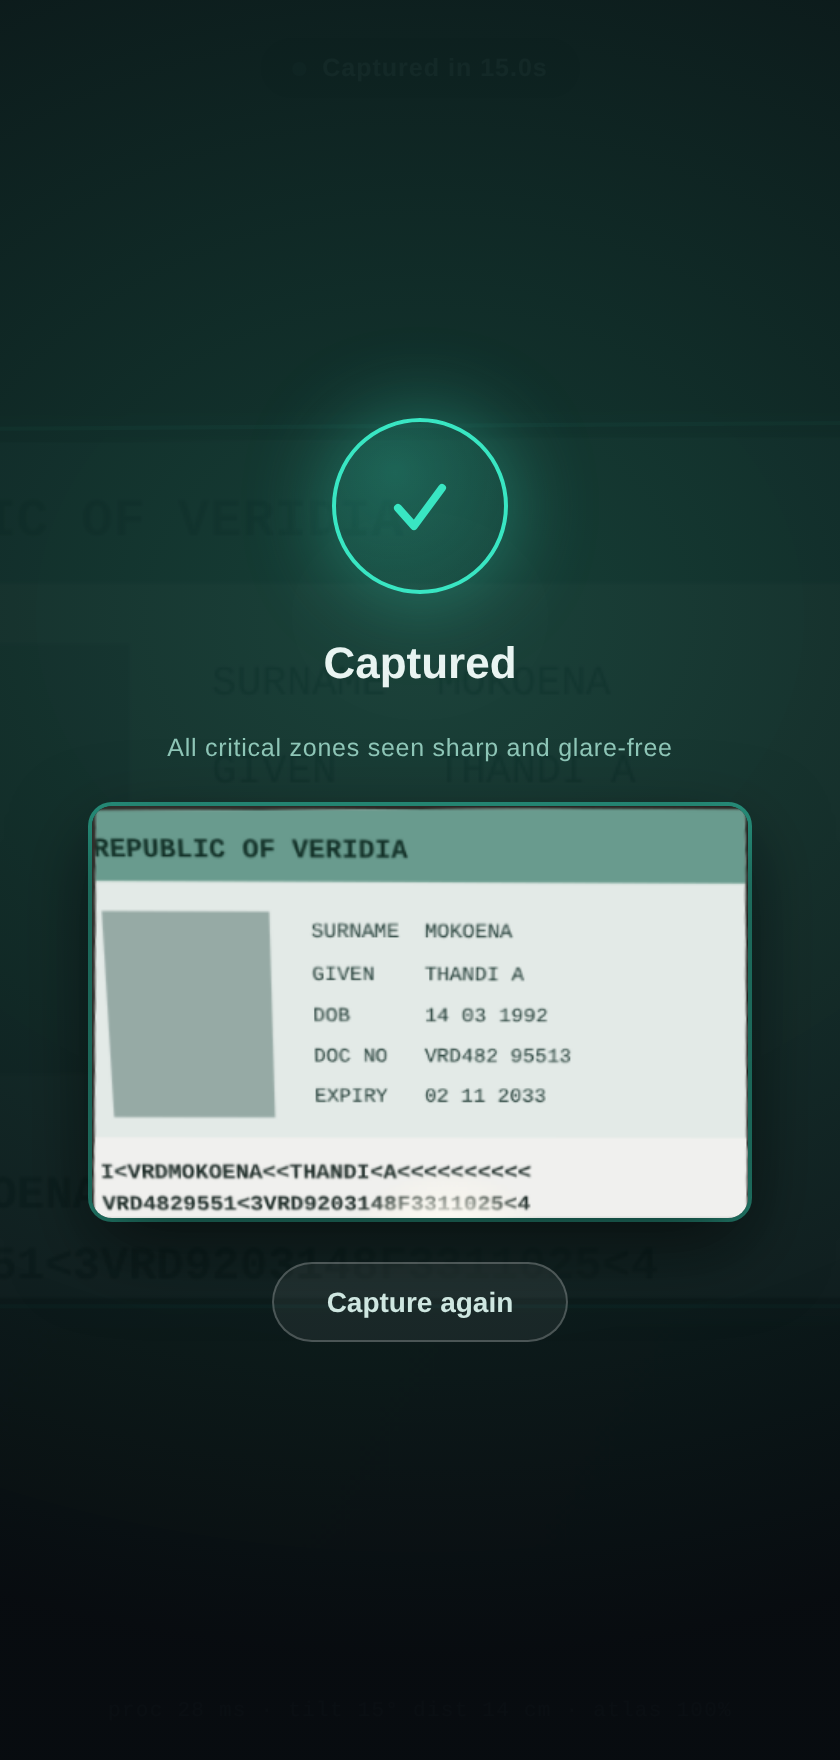
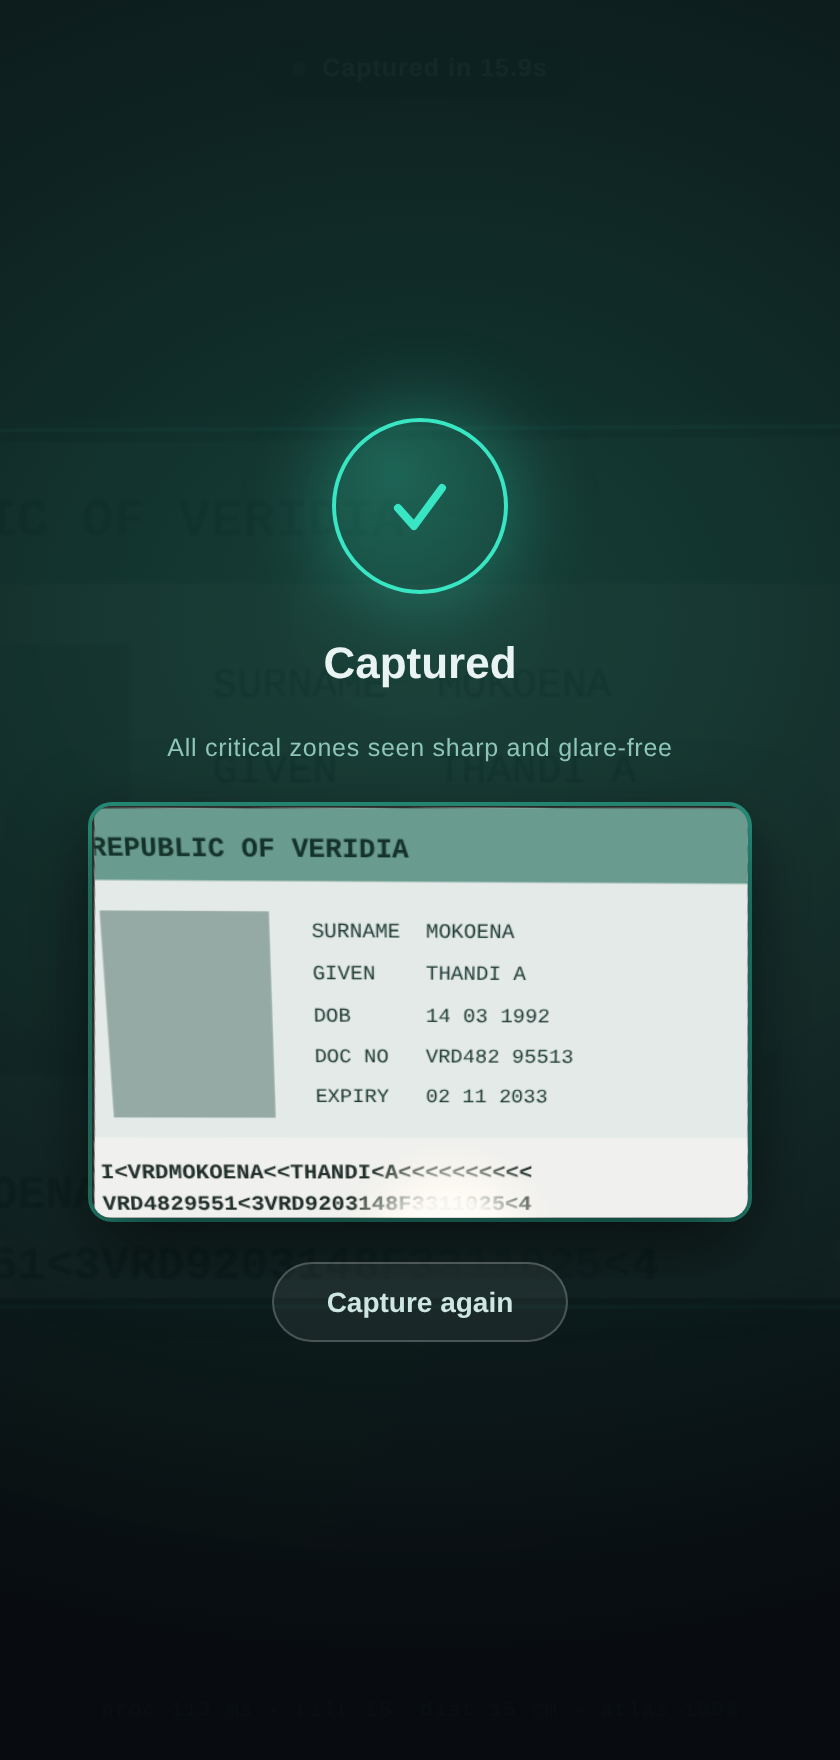
Detect-then-track + full-resolution capture
Finicky lock:
- Track the card in a padded ROI around its last position instead of
  re-scanning the whole frame (stabler, faster, immune to competing
  rectangles); full-frame detection only on ROI miss
- Otsu-threshold fallback when Canny fragments on soft edges
- Wider aspect tolerance (1.15-2.6) so tilted cards keep detecting

Blurry output (root cause): the best frame was saved from the 960px
analysis stream into a 428x270 raster. Now the deliverable is
re-rectified from the native-resolution camera frame into a 4x raster
(1712x1080), captured only when motion is near zero, rate-limited,
with a final fresh grab at completion.

https://claude.ai/code/session_015UCbErKJk2oGsLNqDW1b71

diff --git a/web/js/app.js b/web/js/app.js
@@ -32,6 +32,7 @@ const state = {
   atlas: null,
   pose: null,
   bestFrame: { score: -1, canvas: null },
+  bestHi: { score: -1, canvas: null, lastCapMs: 0 },
   glareZones: [],
   glareCounters: {},       // per-zone hysteresis counters
   coachMsg: { code: 'show', text: 'Show your ID.' },
@@ -55,6 +56,10 @@ const TUNE = {
   coachMinShowMs: 1200,    // minimum time a shown message stays up
   glareOn: 3, glareCap: 6, // zone glare hysteresis counter thresholds
   analyzeEvery: 2,         // heavy UV analysis every Nth frame
+  roiMargin: 0.3,          // tracking ROI margin around last quad (fraction of bbox)
+  hiResScale: 4,           // final capture raster = 4x analysis UV (1712x1080)
+  hiResMinIntervalMs: 400, // don't re-capture hi-res more often than this
+  hiResMotionMax: 0.012,   // only hi-res capture when nearly still (avoid blur)
 };
 
 // ---------- boot ----------
@@ -218,9 +223,35 @@ function quadCenter(c) {
   return { x: (c[0].x + c[1].x + c[2].x + c[3].x) / 4, y: (c[0].y + c[1].y + c[2].y + c[3].y) / 4 };
 }
 
+/** Detect-then-track: when we know where the card was, search only a padded
+ *  region around it — far more stable (no competing rectangles) and faster.
+ *  Falls back to full-frame when the ROI misses. */
+function detectTracked(src) {
+  if (!state.lastCorners) return P.detectQuad(src);
+  const xs = state.lastCorners.map(p => p.x), ys = state.lastCorners.map(p => p.y);
+  const bx = Math.min(...xs), by = Math.min(...ys);
+  const bw = Math.max(...xs) - bx, bh = Math.max(...ys) - by;
+  const mx = bw * TUNE.roiMargin, my = bh * TUNE.roiMargin;
+  const rx = Math.max(0, Math.round(bx - mx)), ry = Math.max(0, Math.round(by - my));
+  const rw = Math.min(src.cols - rx, Math.round(bw + mx * 2));
+  const rh = Math.min(src.rows - ry, Math.round(bh + my * 2));
+  if (rw < 60 || rh < 40) return P.detectQuad(src);
+  const roi = src.roi(new cv.Rect(rx, ry, rw, rh));
+  // inside the ROI the card dominates: loosen area bounds
+  const cfg = Object.assign({}, P.CONFIG, { minAreaFrac: 0.15, maxAreaFrac: 0.99 });
+  const q = P.detectQuad(roi, cfg);
+  roi.delete();
+  if (q) {
+    q.corners = q.corners.map(p => ({ x: p.x + rx, y: p.y + ry }));
+    q.areaFrac = q.areaFrac * (rw * rh) / (src.cols * src.rows);
+    return q;
+  }
+  return P.detectQuad(src); // ROI miss — one full-frame attempt
+}
+
 function processFrame(src) {
   state.frameCount++;
-  let quad = P.detectQuad(src);
+  let quad = detectTracked(src);
 
   // competing-contour filter: while locked, a quad that teleports far away is
   // probably a different rectangle in the scene — ignore unless it persists
@@ -309,6 +340,17 @@ function processFrame(src) {
       cv.imshow(c, uv);
       state.bestFrame.canvas = c;
     }
+    // the deliverable: re-rectify from the FULL-resolution camera frame
+    // (analysis runs downscaled; the capture must not)
+    const now = performance.now();
+    if (score > state.bestHi.score * 1.02
+        && motion < TUNE.hiResMotionMax
+        && now - state.bestHi.lastCapMs > TUNE.hiResMinIntervalMs) {
+      const hi = captureHiRes(quad.corners);
+      if (hi) {
+        state.bestHi = { score, canvas: hi, lastCapMs: now };
+      }
+    }
 
     const msg = P.coach({ quad, pose: state.pose, glare, sharp, atlas: state.atlas, motion });
     // suppress glare coaching unless the zone passed hysteresis
@@ -340,6 +382,38 @@ function updateCoach(code, text) {
   }
 }
 
+/** Rectify the document from the native-resolution source into a hi-res raster. */
+function captureHiRes(procCorners) {
+  try {
+    let source, sw, sh;
+    if (state.mode === 'demo') {
+      source = state.demo.canvas; sw = source.width; sh = source.height;
+    } else {
+      source = els.video; sw = source.videoWidth; sh = source.videoHeight;
+      if (!sw) return null;
+    }
+    const k = sw / state.procW; // processing space -> native space
+    const corners = procCorners.map(p => ({ x: p.x * k, y: p.y * k }));
+    if (!work.hiCap || work.hiCap.width !== sw) {
+      work.hiCap = document.createElement('canvas');
+      work.hiCap.width = sw; work.hiCap.height = sh;
+      work.hiCtx = work.hiCap.getContext('2d', { willReadFrequently: true });
+    }
+    work.hiCtx.drawImage(source, 0, 0, sw, sh);
+    const full = cv.matFromImageData(work.hiCtx.getImageData(0, 0, sw, sh));
+    const outW = P.UV_W * TUNE.hiResScale, outH = P.UV_H * TUNE.hiResScale;
+    const uv = P.rectifyTo(full, corners, outW, outH);
+    const c = document.createElement('canvas');
+    c.width = outW; c.height = outH;
+    cv.imshow(c, uv);
+    full.delete(); uv.delete();
+    return c;
+  } catch (e) {
+    console.warn('hi-res capture failed', e);
+    return null;
+  }
+}
+
 function complete() {
   state.phase = 'COMPLETE';
   els.coach.classList.remove('show');
@@ -347,10 +421,16 @@ function complete() {
   const secs = ((performance.now() - state.t0) / 1000).toFixed(1);
   els.status.textContent = `Captured in ${secs}s`;
   document.body.classList.add('complete');
-  if (state.bestFrame.canvas) {
+  // final attempt at a fresh hi-res grab at the moment of completion
+  if (state.lastCorners) {
+    const hi = captureHiRes(state.lastCorners);
+    if (hi && state.bestHi.score < 0) state.bestHi = { score: 0, canvas: hi, lastCapMs: performance.now() };
+  }
+  const artifact = state.bestHi.canvas || state.bestFrame.canvas;
+  if (artifact) {
     els.doneThumb.innerHTML = '';
-    state.bestFrame.canvas.classList.add('rectified');
-    els.doneThumb.appendChild(state.bestFrame.canvas);
+    artifact.classList.add('rectified');
+    els.doneThumb.appendChild(artifact);
   }
   setTimeout(() => {
     els.donePane.classList.remove('hidden');

diff --git a/web/js/pipeline.js b/web/js/pipeline.js
@@ -38,7 +38,7 @@
     minAreaFrac: 0.05,         // quad must cover >= 5% of frame
     maxAreaFrac: 0.95,
     approxEpsFrac: 0.03,       // approxPolyDP epsilon as fraction of perimeter
-    aspectMin: 1.25, aspectMax: 2.15,   // ID-1 = 1.586
+    aspectMin: 1.15, aspectMax: 2.6,    // ID-1 = 1.586; tilt compresses apparent aspect
     glareValMin: 246,          // HSV V threshold (true glare is blown out, not just bright)
     glareSatMax: 60,           // HSV S threshold
     glareZoneFracBad: 0.04,    // zone is "glared" if > 4% of its pixels glare
@@ -74,6 +74,8 @@
 
   /**
    * Detect the document quadrangle in an RGBA frame Mat.
+   * Tries Canny edges first; falls back to Otsu binarization (handles soft
+   * edges / low local contrast where Canny fragments).
    * Returns { corners:[tl,tr,br,bl] in FULL-frame px, score, areaFrac } or null.
    */
   function detectQuad(srcRGBA, cfg = CONFIG) {
@@ -81,18 +83,45 @@
     const scale = cfg.analysisWidth / fw;
     const aw = Math.round(fw * scale), ah = Math.round(fh * scale);
 
-    const small = new cv.Mat(), gray = new cv.Mat(), edges = new cv.Mat();
+    const small = new cv.Mat(), gray = new cv.Mat();
     cv.resize(srcRGBA, small, new cv.Size(aw, ah), 0, 0, cv.INTER_AREA);
     cv.cvtColor(small, gray, cv.COLOR_RGBA2GRAY);
     cv.GaussianBlur(gray, gray, new cv.Size(5, 5), 0);
-    cv.Canny(gray, edges, cfg.cannyLo, cfg.cannyHi);
+
     const kernel = cv.getStructuringElement(cv.MORPH_RECT, new cv.Size(3, 3));
-    cv.dilate(edges, edges, kernel);
-    kernel.delete();
+    let best = null;
 
+    // strategy 1: Canny edges
+    {
+      const edges = new cv.Mat();
+      cv.Canny(gray, edges, cfg.cannyLo, cfg.cannyHi);
+      cv.dilate(edges, edges, kernel);
+      best = bestQuadFromBinary(edges, aw, ah, cfg);
+      edges.delete();
+    }
+    // strategy 2: Otsu threshold (bright card on darker surface or vice versa)
+    if (!best) {
+      const bin = new cv.Mat();
+      cv.threshold(gray, bin, 0, 255, cv.THRESH_BINARY + cv.THRESH_OTSU);
+      best = bestQuadFromBinary(bin, aw, ah, cfg);
+      if (!best) {
+        cv.bitwise_not(bin, bin);
+        best = bestQuadFromBinary(bin, aw, ah, cfg);
+      }
+      bin.delete();
+    }
+    kernel.delete(); small.delete(); gray.delete();
+
+    if (!best) return null;
+    let corners = best.ordered.map(p => ({ x: p.x / scale, y: p.y / scale }));
+    corners = refineCorners(srcRGBA, corners);
+    return { corners, score: best.score, areaFrac: best.areaFrac };
+  }
+
+  /** Find the best card-like quad in a binary/edge image. */
+  function bestQuadFromBinary(binary, aw, ah, cfg) {
     const contours = new cv.MatVector(), hier = new cv.Mat();
-    cv.findContours(edges, contours, hier, cv.RETR_EXTERNAL, cv.CHAIN_APPROX_SIMPLE);
-
+    cv.findContours(binary, contours, hier, cv.RETR_EXTERNAL, cv.CHAIN_APPROX_SIMPLE);
     let best = null;
     const frameArea = aw * ah;
     for (let i = 0; i < contours.size(); i++) {
@@ -113,7 +142,6 @@
           const hL = dist(ordered[0], ordered[3]), hR = dist(ordered[1], ordered[2]);
           const aspect = ((wTop + wBot) / 2) / Math.max(1, (hL + hR) / 2);
           if (aspect >= cfg.aspectMin && aspect <= cfg.aspectMax) {
-            // rectangularity: contour area vs quad area
             const cArea = cv.contourArea(cnt);
             const rectangularity = cArea / Math.max(1, area);
             const score = areaFrac * rectangularity;
@@ -123,12 +151,8 @@
       }
       approx.delete(); cnt.delete();
     }
-    contours.delete(); hier.delete(); small.delete(); gray.delete(); edges.delete();
-
-    if (!best) return null;
-    let corners = best.ordered.map(p => ({ x: p.x / scale, y: p.y / scale }));
-    corners = refineCorners(srcRGBA, corners);
-    return { corners, score: best.score, areaFrac: best.areaFrac };
+    contours.delete(); hier.delete();
+    return best;
   }
 
   /** Sub-pixel corner refinement on the full-res frame (corrects the
@@ -155,20 +179,25 @@
     }
   }
 
-  /** Rectify the document into UV space. Returns a new RGBA Mat (UV_W x UV_H). */
-  function rectify(srcRGBA, corners) {
+  /** Rectify the document into an arbitrary-resolution raster. */
+  function rectifyTo(srcRGBA, corners, outW, outH) {
     const srcTri = cv.matFromArray(4, 1, cv.CV_32FC2, [
       corners[0].x, corners[0].y, corners[1].x, corners[1].y,
       corners[2].x, corners[2].y, corners[3].x, corners[3].y,
     ]);
     const dstTri = cv.matFromArray(4, 1, cv.CV_32FC2, [
-      0, 0, UV_W, 0, UV_W, UV_H, 0, UV_H,
+      0, 0, outW, 0, outW, outH, 0, outH,
     ]);
     const H = cv.getPerspectiveTransform(srcTri, dstTri);
     const uv = new cv.Mat();
-    cv.warpPerspective(srcRGBA, uv, H, new cv.Size(UV_W, UV_H), cv.INTER_LINEAR, cv.BORDER_REPLICATE);
+    cv.warpPerspective(srcRGBA, uv, H, new cv.Size(outW, outH), cv.INTER_LINEAR, cv.BORDER_REPLICATE);
     srcTri.delete(); dstTri.delete(); H.delete();
     return uv;
+  }
+
+  /** Rectify the document into UV analysis space. Returns a new RGBA Mat (UV_W x UV_H). */
+  function rectify(srcRGBA, corners) {
+    return rectifyTo(srcRGBA, corners, UV_W, UV_H);
   }
 
   /**
@@ -380,7 +409,7 @@
 
   return {
     init, CONFIG, ZONES, UV_W, UV_H, DOC_W_MM, DOC_H_MM,
-    orderCorners, detectQuad, rectify, analyzeGlare, analyzeSharpness,
+    orderCorners, detectQuad, rectify, rectifyTo, analyzeGlare, analyzeSharpness,
     estimatePose, Atlas, zoneAt, coach,
   };
 }));
